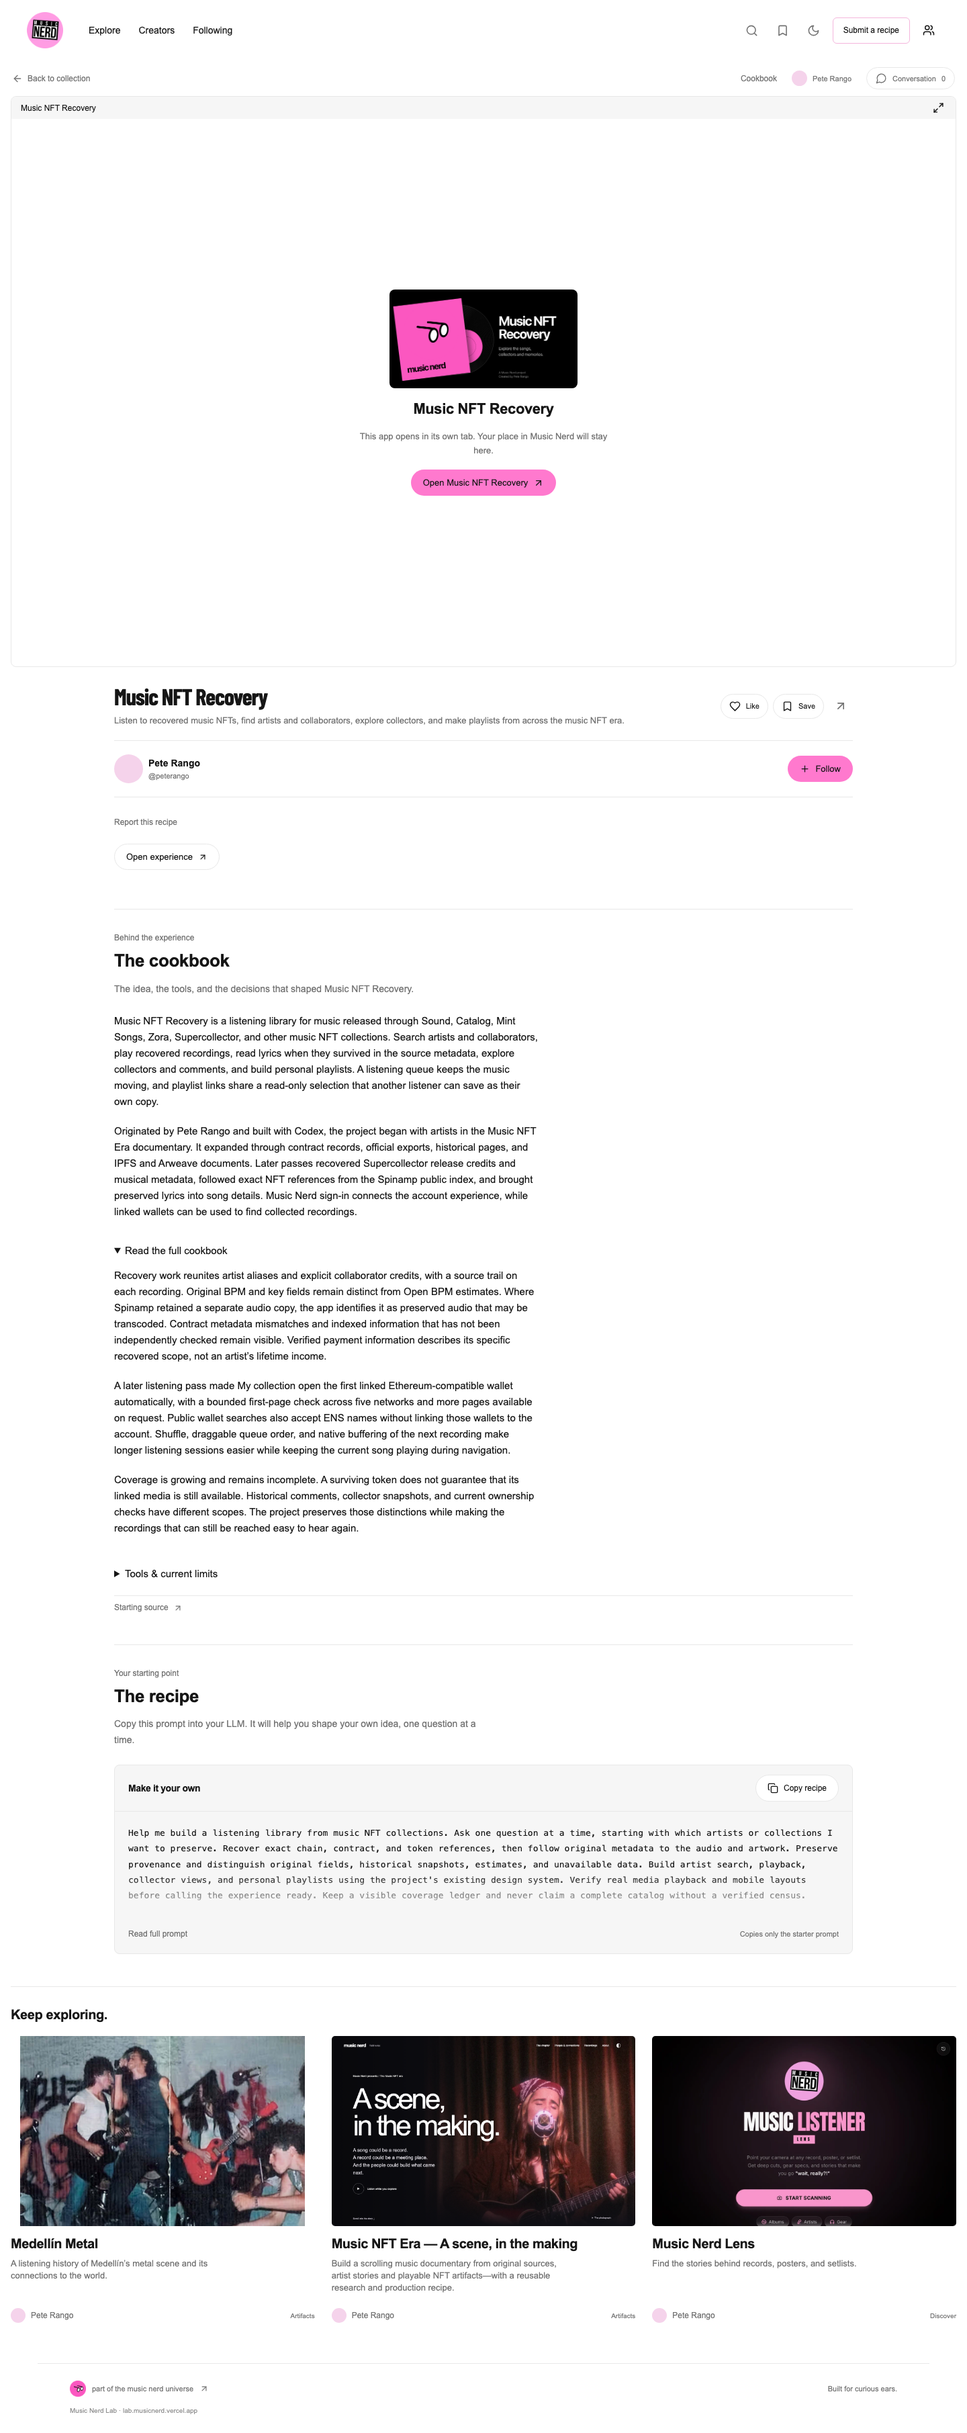
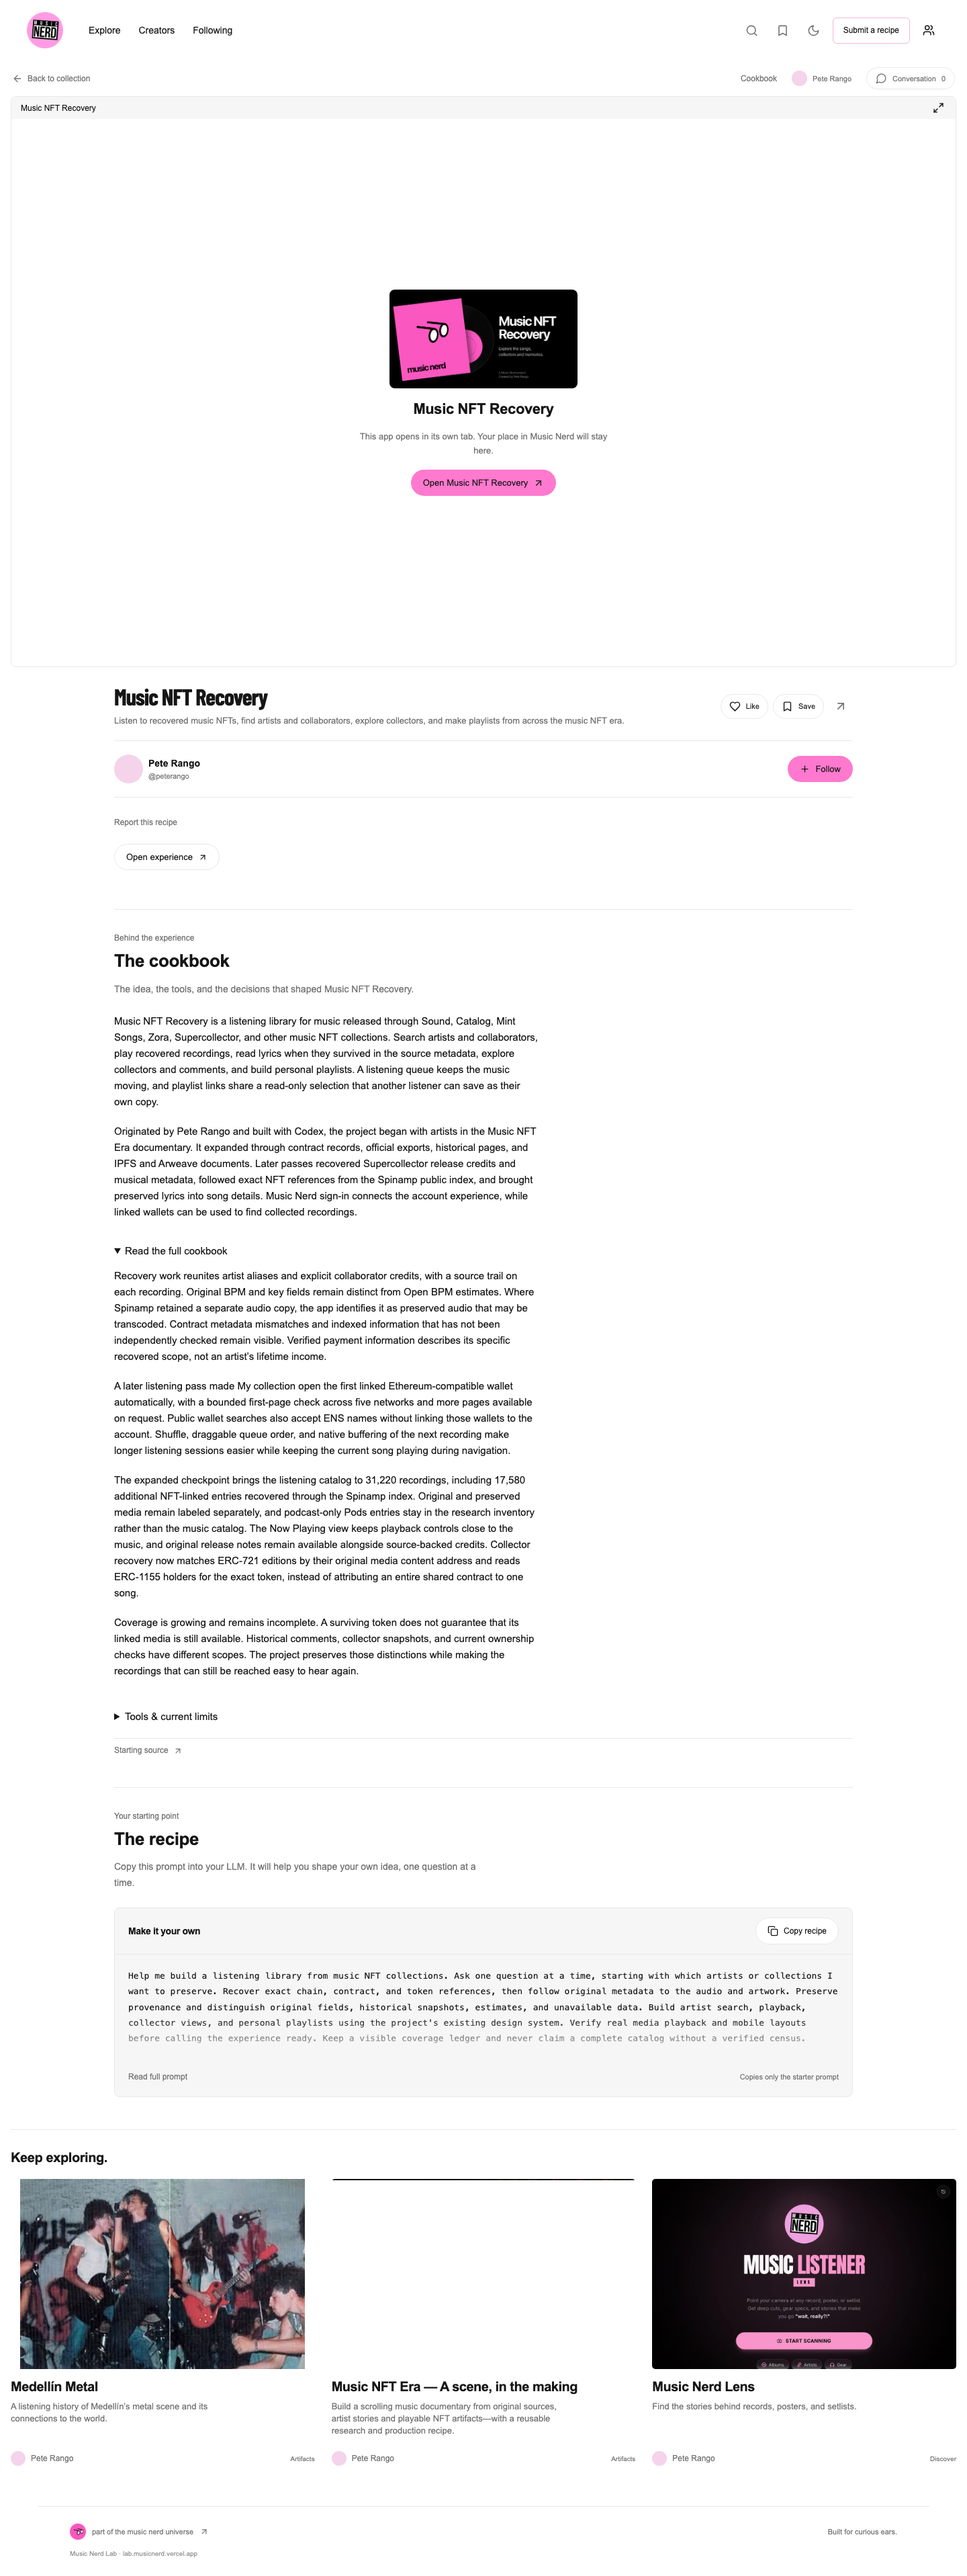
docs: record expanded catalog deployment and remaining playback follow-ups

diff --git a/docs/RECOVERY-HANDOFF.md b/docs/RECOVERY-HANDOFF.md
@@ -4,15 +4,15 @@ Updated November 6, 2026. Created and originated by **Pete Rango**. This is the 
 
 ## Current publication
 
-- Repository: https://github.com/xdjs/web3-music-repo — PR #2 merged to `main`, app commit `c79de1908a597fcb47dbde4afd4cba4c488044b3`.
-- Live app: https://web3-music-repo.vercel.app/ . Production deployment `dpl_ghLKKmV9ieeXNpJNPydkRJXmqvtK`, built from a clean worktree at that exact merged commit.
-- Immutable deployment: https://web3-music-repo-lejms9qod-musicnerd.vercel.app .
-- Existing Lab listing: https://lab.musicnerd.net/peterango/music-nft-recovery . It launches the Vercel app, not a separate build. Cookbook updated for linked collections, ENS and playback controls; saved data and desktop/mobile rendering independently verified. Cover, source link, description and Pete Rango originator credit preserved.
-- `data/release-wallet-player-2026-11-06.json` and `data/wallet-player-production-verification.json` identify the latest release. Verification/docs commits after deployment do not change the deployed app. Older receipts are historical.
+- Repository: https://github.com/xdjs/web3-music-repo — PR #3 merged to `main` at `4fb104a4492d7b45f585f7eab5a01ed84a082513`. Deployment source is clean commit `5cec2425c0eba2ee730d4a2c136198ba51cea2e1`; its entire tree matches merged main (verified by git diff).
+- Live app: https://web3-music-repo.vercel.app/ . Production deployment `dpl_HmCSPyouSG5SdoBxcb6Pi1KHK2J5`, built from the clean, main-equivalent source commit above. Vercel independently reported READY and both production aliases assigned.
+- Immutable deployment: https://web3-music-repo-1g3j3oq2z-musicnerd.vercel.app .
+- Existing Lab listing: https://lab.musicnerd.net/peterango/music-nft-recovery . It launches the Vercel app, not a separate build. Cookbook updated at18:10UTC for the31,220record expansion, NowPlaying, linkedcollections, ENS andplaybackcontrols; saved data and desktop/mobile rendering independently verified. Cover, source link, description and Pete Rango originator credit preserved.
+- `data/release-spinamp-now-playing-2026-11-06.json` identifies the latest release; `data/release-wallet-player-2026-11-06.json` describes the earlier release. Verification/docs commits after deployment do not change the deployed app. Older receipts are historical.
 
 ## Expanded Spinamp and listening checkpoint
 
-User requested this checkpoint be deployed on November 6 after asking for a stopping point. Branch `codex/spinamp-expansion-playback-state`; deployment confirmation follows in the release receipt after publication.
+User requested this checkpoint be deployed on November 6 after asking for a stopping point. Merged PR #3; deployment confirmation is recorded separately in the release receipt.
 
 - Listening catalog: **31,220 records**; **21,395 Spinamp additions in total**, **17,580 beyond the previous release**. All 3,815 prior Spinamp IDs retained. **52,818/52,987** inventory IDs checked; **169 provider reads unresolved**. 7,758 duplicates and 23,665 exclusions are preserved in the audit. Unsupported chains, absent exact NFT relations, attribution conflicts, non-music Pods entries and unsuitable media remain outside the listening catalog. These counts are records, not distinct compositions or a complete platform census.
 - Metadata: **7,942 supplied BPM values**, **7,519 supplied keys**, **1,311 tracks with recovered inline lyrics**. Existing Open BPM checkpoint remains 5,666 estimates. 22,017 records have not entered that original analysis run (some already have supplied BPM and should be skipped). No new audio-analysis worker was started.
@@ -21,7 +21,7 @@ User requested this checkpoint be deployed on November 6 after asking for a stop
 - Collector recovery now supports exact-original-media matching across ERC721 instances and token-specific ERC1155 holders. Say it celly has seven matched wallets and three recovered PFPs in local UI; ROUND N ROUND token2 has five holders. Sampled ownerOf/balanceOf reads agree. These are indexed current holders, not necessarily original minters. Base/Polygon/Zora provider availability remains incomplete. See `docs/collector-recovery-status.md`.
 - **Queue follow-up requested by Pete:** On Explore, clicking Play on the fourth Spinamp track starts it but the queue still lists it fourth, with three unplayed earlier rows ahead. Expected: a newly created contextual queue begins with the selected track as row1. Decide how remaining browsing tracks follow, preserve explicit existing queues and duplicate occurrence semantics, and verify with shuffle both off/on. Pete explicitly asked to fix this later; not changed in this release.
 - **Priority unresolved issue:** Pete heard doubled/delayed audio in Planet X around the middle. Pause stopped all sound. Production instrumentation at 1:48–2:00 found exactly one playing media element, one play call and no standby (video warming is disabled); audible doubling was not reproduced or explained. Do not claim fixed. Chrome's incorrect page-title playback label has a separate MediaSession metadata fix. Source: original Planet X IPFS video `bafybeidiwm2sgde6t4pbccgcraah6g5qt6m2jo73o6rhdwszhy7szxoxne?id=1`; investigate a full uninterrupted play and compare standalone original file. A bounded download was refused because file exceeds64MiB; ffprobe remote probe hit environment DNS failure. No source-audio diagnosis established.
-- Validation before publication: 219 unit tests, syntax/format and build passed; 10/10 representative newly imported media samples decoded/advanced. Now Playing reviewed at1440/390/320 in both themes; real playback, pause/resume/rerenders/error recovery, focus/back/scroll tested. CollectorUI reviewed1440/390 both themes. Static index27,943,003bytes (~4.12MBgzip), full export109,276,239bytes (~14.39MBgzip); mobile parse/heap and live CDN delivery at this expanded size still need measurement. Source labels retain indexed/unverified boundaries.
+- Validation before publication: 219 unit tests, syntax/format and build passed; 10/10 representative newly imported media samples decoded/advanced. Now Playing reviewed at1440/390/320 in both themes; real playback, pause/resume/rerenders/error recovery, focus/back/scroll tested. CollectorUI reviewed1440/390 both themes. Static index27,943,003bytes (~4.12MBgzip), full export109,276,239bytes (~14.39MBgzip); Full export returned live HTTP200 with109,276,239bytes; the new NowPlaying module matches the deployed source. Production real audio/MediaSession/Back passed with one media element; the live Sayitcelly endpoint returned7collectors. Expanded-catalog mobile parse/heap remains unmeasured. Source labels retain indexed/unverified boundaries.
 
 Next agent: verify production after checkpoint deployment; reproduce PlanetX for a full play without seeking and compare original audio; video now uses the single media element inside Now Playing and keeps playing when closed; finish169 Spinamp lookups only ifproviderpermits; expand independent chain/media checks; start a single resumable OpenBPM worker in the preserved preview after syncing the frozen catalog, leaving the Git checkpoint stable. Personal cross-device playlist save/load and physicaliOS playback remain user tests. See `docs/now-playing-and-controls.md`, `docs/spinamp-recovery-plan.md`, and new timestamped data receipts.
 
@@ -29,7 +29,7 @@ Next agent: verify production after checkpoint deployment; reproduce PlanetX for
 
 - Canonical checkout: `/Users/peterarango/Documents/Music Nerd/Apps/web3-music-repo`, on `main`.
 - Clean deployed worktree: `../web3-music-release-main`, detached at the deployed app commit. Do not modify it while tracing this release.
-- Preserved preview: `../music-nft-recovery`, http://127.0.0.1:4190. The latest app files were synchronized there, preserving `.env.local`, private playlists, raw metadata cache and its newer audio-analysis output. It has no Git repository.
+- Preserved preview: `../music-nft-recovery`, http://127.0.0.1:4190, contains the previous wallet/player release plus private `.env.local`, playlists and recovery caches; no Git. Canonical4191 serves the expanded source during QA. Restart canonical after server changes. Do not copy private files into Git or overwrite newer recovery checkpoints.
 - The documentary `/Users/peterarango/Documents/Music Nerd/Music NFT Era` is a different dirty repository. Do not reset, stage, move or overwrite it.
 - Never start two writers against one recovery output. Check lock owner PID/cwd before removing a stale lock. Checkpoints do not prove that a process is alive.
 
@@ -39,7 +39,7 @@ The last Spinamp relation checkpoint at 10:44:51 UTC has 52,353 resolved referen
 
 ## Frozen catalog and source boundaries
 
-**13,640 records**, not necessarily distinct compositions: Sound 8,729; Catalog 4,036; Supercollector 616; Mint Songs 162; Songcamp 43; Zora 34; Lens 1; other/unconfirmed/Arpeggi 19. No complete-platform, complete-discography or all-track playback claim is made. Exact token and record identity audit found no duplicates.
+**Prior wallet/player release: 13,640 records**, not necessarily distinct compositions. The expanded checkpoint above supersedes these historical totals: Sound 8,729; Catalog 4,036; Supercollector 616; Mint Songs 162; Songcamp 43; Zora 34; Lens 1; other/unconfirmed/Arpeggi 19. No complete-platform, complete-discography or all-track playback claim is made. Exact token and record identity audit found no duplicates.
 
 - Original documents/publisher snapshots cover 9,209 existing records. Catalog's official export supplies 4,036 app records; all available original Catalog and Mint Songs snapshots were inspected for explicit musical fields. Missing fields are not evidence the music lacks them.
 - Supercollector adds 616 eligible public tracks from 152 checked ERC1155 contracts. Unreleased entries and 7 missing per-track references are excluded. ContractURI/index mismatches stay visible and are not promoted to independently verified media. See `docs/supercollector-recovery.md`.

diff --git a/docs/collector-recovery-status.md b/docs/collector-recovery-status.md
@@ -27,3 +27,7 @@ Existing verified Sound release paths (5,017), legacy Sound paths (276), and Cat
 This change is implemented and locally verified; production deployment is owned by the release orchestrator. Do not describe the fix as live until the deployed endpoint/page has been checked.
 
 Primary endpoint reference: [Blockscout token API documentation](https://github.com/blockscout/agent-skills/blob/main/blockscout-analysis/references/blockscout-api/tokens.md).
+
+## Production checkpoint — November 6, 18:10 UTC
+
+Root verified the deployed collector endpoint returns seven Say it celly wallets on deployment `dpl_HmCSPyouSG5SdoBxcb6Pi1KHK2J5`. The independent production browser attempt could not complete its catalog-count assertion because Chrome evicted the large response from its inspector cache; this is a verification-tool limitation, not evidence of an application failure. Local four-view collector/PFP evidence remains above. The Lab cookbook update is published with the 31,220-record checkpoint, 17,580 additional Spinamp records, Now Playing and exact-token/media-matched collector scope, independently confirmed by database read-back. See `data/lab-update-persistence.json`.
